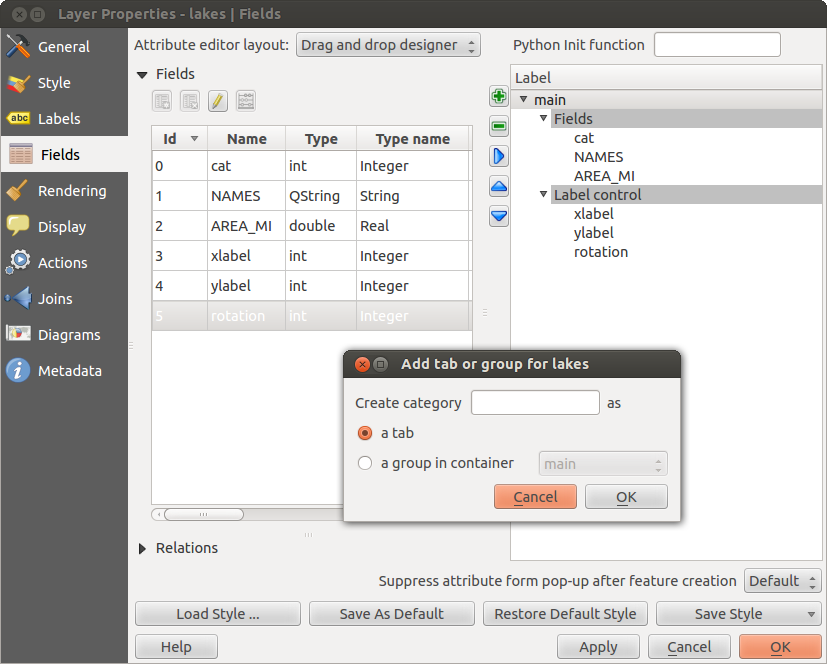
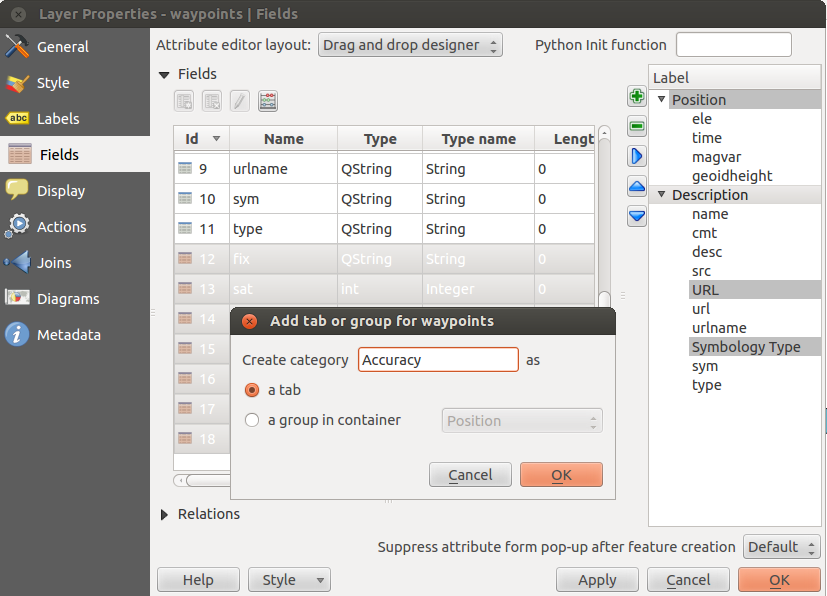
improve information on fields, widgets and forms

Changed region(s): [[0.0, 0.0, 1.0, 1.0], [0.0, 0.5436, 0.1209, 0.604], [0.7255, 0.604, 0.7557, 0.6342]]

diff --git a/source/docs/user_manual/working_with_vector/vector_properties.rst b/source/docs/user_manual/working_with_vector/vector_properties.rst
@@ -889,13 +889,24 @@ widgets. These widgets are:
   select layer, key column and value column.
 * **Webview**: Field contains a URL. The width and height of the field is variable.
 
-With the **Attribute editor layout**, you can now define built-in forms for data entry jobs (see figure_fields_2_).
-Choose 'Drag and drop designer' and an attribute column. Use the |mActionSignPlus| icon to create
-a category that will then be shown during the digitizing session (see figure_fields_3_). The next step will be to
-assign the relevant fields to the category with the |mActionArrowRight| icon. You can create
-more categories and use the same fields again. When creating a new category, |qg|
-will insert a new tab for the category in the built-in form.
+.. note::
 
+   |qgis| has an advanced 'hidden' option to define your own field 
+   widget using python and add it to this impressive list of widgets. 
+   It is tricky but it is very well explained in following excellent blog that
+   explains how to create a real time validation widget that can be used like 
+   described widgets.
+   See http://blog.vitu.ch/10142013-1847/write-your-own-qgis-form-elements
+
+
+With the **Attribute editor layout**, you can now define built-in forms (see figure_fields_2_). This is usefull for data entry jobs or to identify objects using the option auto open form when you have objects with many attributes. You can create an editor with several tabs and named groups to present the attribute fields.
+
+Choose 'Drag and drop designer' and an attribute column. Use the |mActionSignPlus| icon to create
+a category to insert a tab or a named group (see figure_fields_3_). 
+When creating a new category, |qg| will insert a new tab or named group for the category in the built-in form.
+The next step will be to assign the relevant fields to a selected category 
+with the |mActionArrowRight| icon. You can create more categories and use the 
+same fields again. 
 Other options in the dialog are 'Autogenerate' and 'Provide ui-file'. 'Autogenerate' just creates editors for all fields
 and tabulates them.
 The 'Provide ui-file' option allows you to use complex dialogs made with the Qt-Designer. Using a UI-file allows
@@ -934,7 +945,7 @@ MyForms.py must live on PYTHONPATH, in .qgis2/python, or inside the project fold
 .. figure:: /static/user_manual/working_with_vector/resulting_feature_form.png
    :align: center
 
-   Resulting built-in form in a data entry session
+   Resulting built-in form with tabs and named groups
 
 .. _vectorgeneralmenu:
 
